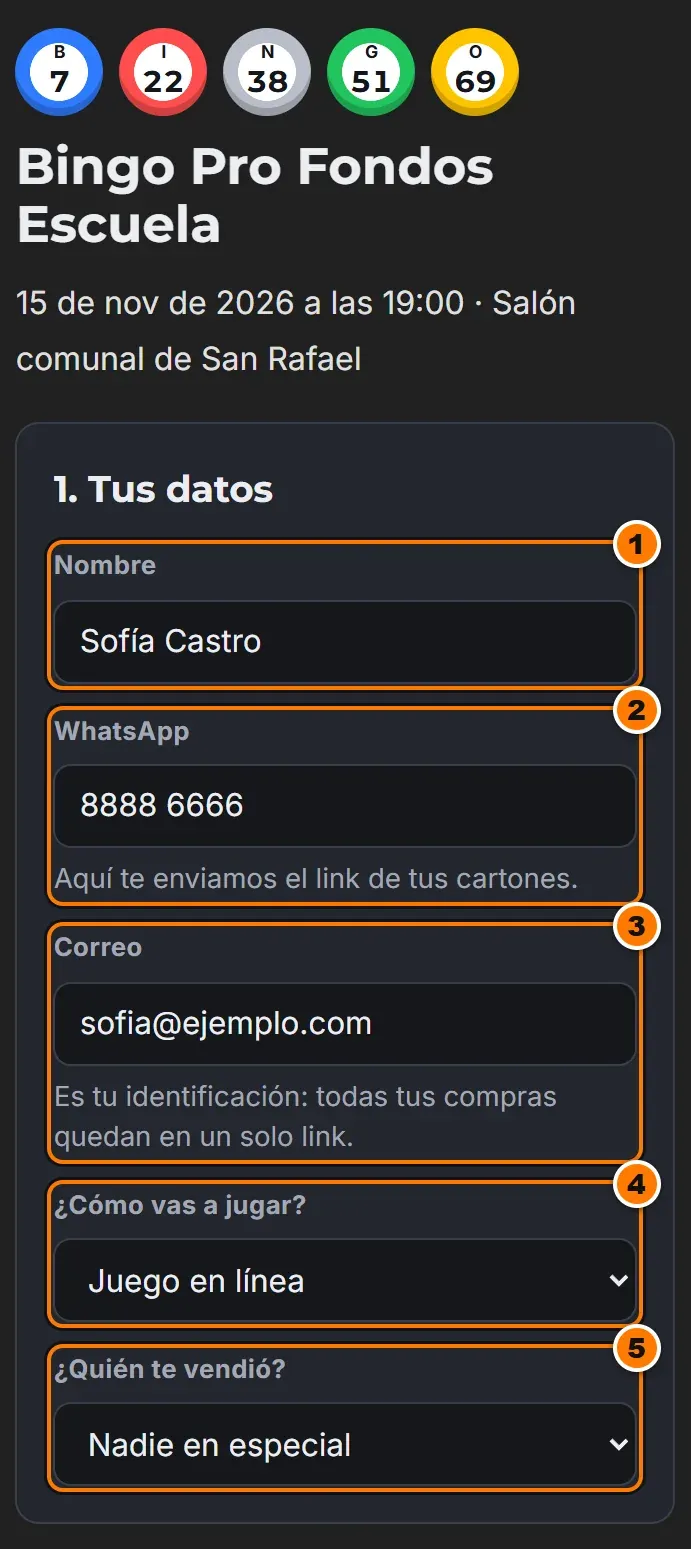
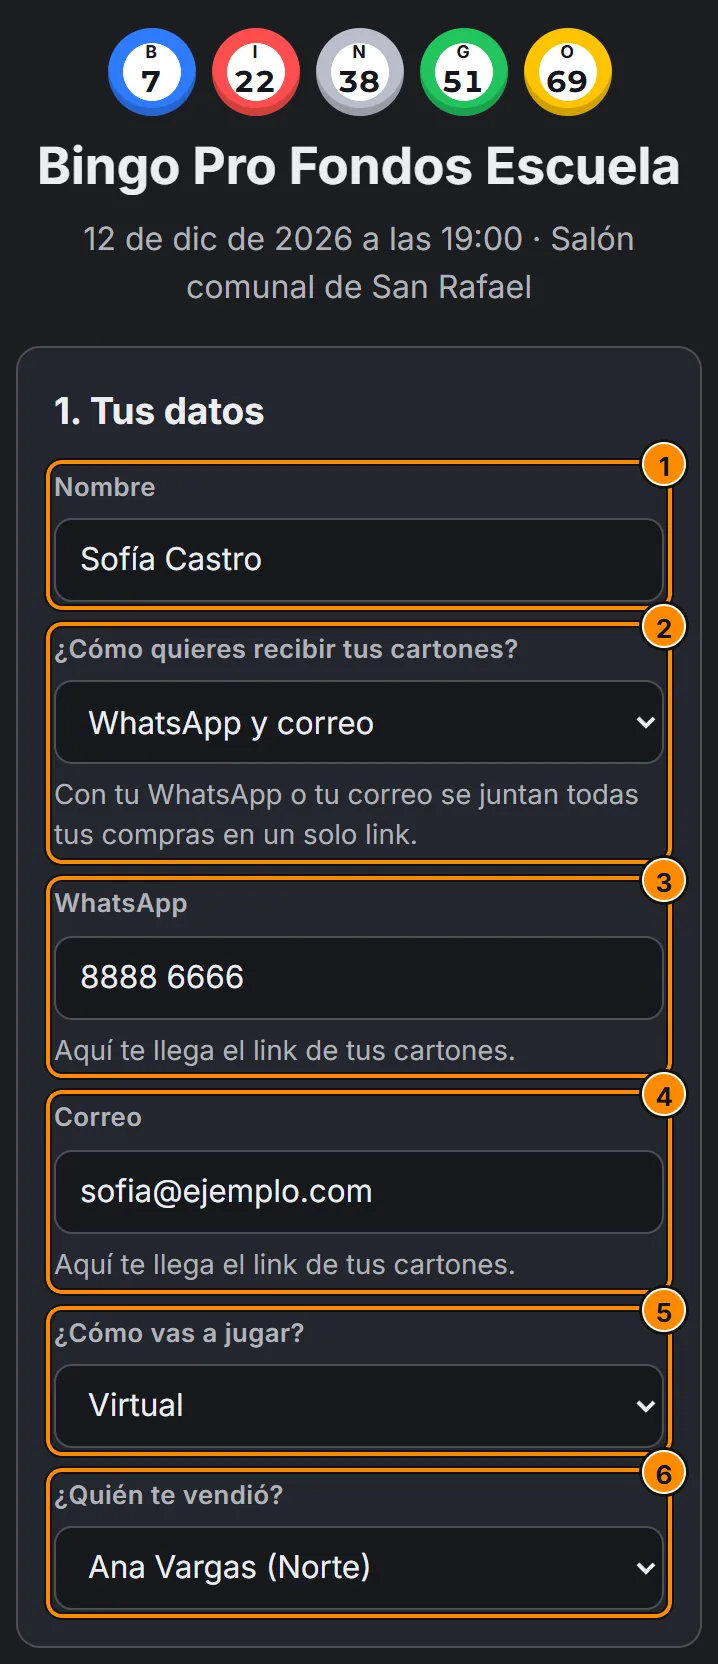
docs(bingo): guía y parches al día con el formulario y Ventas
Capturas nuevas del formulario de compra, la confirmación, la venta
presencial, Ventas y el Resumen, con sus marcas. Los avisos por WhatsApp
pasan al parche de hoy, cuando quedaron activos en el servidor.

Changed region(s): [[0.0, 0.0, 1.0, 0.9916]]

diff --git a/bingo-digital.html b/bingo-digital.html
@@ -59,9 +59,12 @@
             <li><strong>Lote de cartones presenciales:</strong> imprima los presenciales vendidos y un lote para vender en el evento; desde ahí lo presencial y lo virtual toman cartones por aparte.</li>
             <li><strong>Diseños listos para el cartón:</strong> Clásico, ChinoPCMaster, Ocean, Gold, Navidad, Halloween y Pascua, además del Sencillo y de su propio arte. Se eligen con un toque.</li>
             <li><strong>Textos, colores y tipografía:</strong> escriba el título y el subtítulo y cambie la tipografía, el color y el tamaño de cada parte del cartón, con 24 tipografías.</li>
-            <li><strong>WhatsApp, correo o ambos:</strong> en el formulario de compra, el comprador elige por dónde recibe el enlace de sus cartones. El correo ya no es obligatorio para quien prefiere WhatsApp.</li>
-            <li><strong>Un solo enlace por correo o WhatsApp:</strong> las compras de una misma persona se juntan por su correo o por su número de WhatsApp.</li>
+            <li><strong>WhatsApp, correo o ambos:</strong> en el formulario de compra, el comprador elige por dónde recibe el enlace de sus cartones y la app le pide solo ese dato. Quien prefiere WhatsApp no tiene que dar un correo.</li>
+            <li><strong>Un solo enlace por correo o WhatsApp:</strong> las compras de una misma persona se juntan por su correo o por su número de WhatsApp, aunque nunca haya dejado correo.</li>
+            <li><strong>Hacer otra compra:</strong> al terminar una compra, un botón abre el formulario en blanco para comprar más cartones o para otra persona.</li>
             <li><strong>Historial automático:</strong> cuando salen todos los mensajes que pidió el comprador, la compra pasa sola de «Por enviar» a «Historial».</li>
+            <li><strong>Reenviar desde Historial:</strong> cada compra muestra qué mensaje salió y cuál no, y el WhatsApp o el correo se pueden reenviar.</li>
+            <li><strong>Ranking de vendedores:</strong> el Resumen ordena a los encargados por cartones o por monto recaudado, con medallas para los tres primeros, y se descarga como imagen o PDF.</li>
             <li><strong>Sectores solo presenciales:</strong> un sector puede quedar fuera de «¿Quién te vendió?» del formulario y seguir vendiendo en persona con sus enlaces.</li>
             <li><strong>Correos desde bingo@chinopcmaster.com:</strong> los correos de los cartones salen desde la dirección del Bingo Digital, con el nombre de su bingo.</li>
             <li><strong>PDF de hasta 500 cartones:</strong> cada archivo lleva hasta 500 cartones (antes eran 100). Un PDF de 500 cartones pesa de 8 a 13 MB y se arma en unos 5 segundos.</li>
@@ -206,20 +209,20 @@
         <p class="doc-eyebrow tech-font">07 · Ventas</p>
         <h3 id="bd-ventas" class="doc-h2">Del comprobante al enlace de cartones</h3>
         <p class="doc-sub">Las compras en línea llegan con comprobante; las presenciales se anotan en el momento. Cada compra pasa por estas listas.</p>
-        <div class="doc-tablewrap"><table class="doc-table"><thead><tr><th>Lista</th><th>Qué significa</th><th>Qué hace usted</th></tr></thead><tbody><tr><td><strong>Pendientes</strong></td><td>Compra en línea sin revisar. Todavía no tiene cartones.</td><td>Revisar el comprobante y aprobar o rechazar.</td></tr><tr><td><strong>Por enviar</strong></td><td>Aprobada, con sus cartones asignados.</td><td>Enviar el enlace por el medio que eligió el comprador: su botón va resaltado.</td></tr><tr><td><strong>Historial</strong></td><td>Compra terminada. Pasa sola cuando salen todos los mensajes que pidió el comprador.</td><td>Nada. Queda como registro.</td></tr><tr><td><strong>Rechazadas</strong></td><td>Compra no aceptada, con su motivo.</td><td>Puede devolverla a pendientes.</td></tr><tr><td><strong>Todas</strong></td><td>Cada compra, en cualquier estado.</td><td>Buscar una compra ante cualquier reclamo y corregir su modalidad.</td></tr></tbody></table></div>
+        <div class="doc-tablewrap"><table class="doc-table"><thead><tr><th>Lista</th><th>Qué significa</th><th>Qué hace usted</th></tr></thead><tbody><tr><td><strong>Pendientes</strong></td><td>Compra en línea sin revisar. Todavía no tiene cartones.</td><td>Revisar el comprobante y aprobar o rechazar.</td></tr><tr><td><strong>Por enviar</strong></td><td>Aprobada, con sus cartones asignados.</td><td>Enviar el enlace por el medio que eligió el comprador: su botón va resaltado.</td></tr><tr><td><strong>Historial</strong></td><td>Compra terminada. Pasa sola cuando salen todos los mensajes que pidió el comprador.</td><td>Nada, o reenviar un mensaje si hace falta.</td></tr><tr><td><strong>Rechazadas</strong></td><td>Compra no aceptada, con su motivo.</td><td>Puede devolverla a pendientes.</td></tr><tr><td><strong>Todas</strong></td><td>Cada compra, en cualquier estado.</td><td>Buscar una compra ante cualquier reclamo y corregir su modalidad.</td></tr></tbody></table></div>
         <h4 class="doc-h3">Aprobar una compra</h4>
         <div class="doc-guide"><figure class="doc-figure"><a href="imagenes/bingo/guia/g-ven-pend.webp" target="_blank" rel="noopener noreferrer" aria-label="Ampliar: Ventas — una compra pendiente."><img src="imagenes/bingo/guia/g-ven-pend.webp" alt="Pestaña Ventas con una compra pendiente" loading="lazy" decoding="async" width="691" height="981"></a><figcaption class="tech-font">Ventas — una compra pendiente.</figcaption></figure><ol class="doc-marks"><li><strong>Buscar</strong> por nombre, teléfono, correo o serie.</li><li><strong>Recargar:</strong> trae las compras nuevas.</li><li><strong>+ Venta presencial:</strong> anota una venta en el momento.</li><li><strong>Las cuatro listas</strong>, con cuántas compras tiene cada una.</li><li><strong>La compra:</strong> nombre, número, fecha, modalidad, monto y cantidad.</li><li><strong>Ver comprobante:</strong> la foto o el PDF del pago.</li><li><strong>Aprobar:</strong> la app asigna cartones libres.</li><li><strong>Aprobar con series:</strong> usted elige los cartones, por ejemplo si ya le entregó unos impresos.</li><li><strong>Rechazar:</strong> pide un motivo.</li></ol></div>
         <div class="doc-guide"><figure class="doc-figure"><a href="imagenes/bingo/guia/g-ven-comprobante.webp" target="_blank" rel="noopener noreferrer" aria-label="Ampliar: Ver comprobante."><img src="imagenes/bingo/guia/g-ven-comprobante.webp" alt="Comprobante de demostración abierto en una ventana" loading="lazy" decoding="async" width="716" height="944"></a><figcaption class="tech-font">Ver comprobante.</figcaption></figure></div>
         <div class="doc-guide"><figure class="doc-figure"><a href="imagenes/bingo/guia/g-ven-series.webp" target="_blank" rel="noopener noreferrer" aria-label="Ampliar: Aprobar con series."><img src="imagenes/bingo/guia/g-ven-series.webp" alt="Ventana para elegir las series de la compra" loading="lazy" decoding="async" width="716" height="486"></a><figcaption class="tech-font">Aprobar con series.</figcaption></figure><ol class="doc-marks"><li><strong>Series:</strong> sepárelas con comas y use guion para rangos, por ejemplo 15, 16, 40-42. Deben ser exactamente las de la compra y estar libres.</li><li><strong>Aprobar</strong> asigna esos cartones.</li></ol></div>
         <div class="doc-guide"><figure class="doc-figure"><a href="imagenes/bingo/guia/g-ven-rechazar.webp" target="_blank" rel="noopener noreferrer" aria-label="Ampliar: Rechazar una compra."><img src="imagenes/bingo/guia/g-ven-rechazar.webp" alt="Ventana para rechazar una compra con su motivo" loading="lazy" decoding="async" width="716" height="434"></a><figcaption class="tech-font">Rechazar una compra.</figcaption></figure><ol class="doc-marks"><li><strong>Motivo:</strong> queda como nota en la compra.</li><li><strong>Rechazar</strong> la pasa a «Rechazadas».</li></ol></div>
         <h4 class="doc-h3">Enviar los cartones</h4>
-        <div class="doc-guide"><figure class="doc-figure"><a href="imagenes/bingo/guia/g-ven-enviar.webp" target="_blank" rel="noopener noreferrer" aria-label="Ampliar: Ventas — Por enviar."><img src="imagenes/bingo/guia/g-ven-enviar.webp" alt="Compra en Por enviar con los botones de envío" loading="lazy" decoding="async" width="691" height="1174"></a><figcaption class="tech-font">Ventas — Por enviar.</figcaption></figure><ol class="doc-marks"><li><strong>Cartones</strong> asignados a la compra.</li><li><strong>Mismo jugador:</strong> aparece si esa persona compró antes con el mismo correo o el mismo WhatsApp. Todos sus cartones están en un solo enlace.</li><li><strong>Copiar link</strong> de los cartones.</li><li><strong>Ver cartones:</strong> abre lo que verá el jugador.</li><li><strong>WhatsApp:</strong> abre el chat con su mensaje listo. Después queda como «WhatsApp ✓».</li><li><strong>Enviar correo:</strong> sale de una vez y queda como «Correo ✓».</li><li><strong>Pasar a historial:</strong> para cerrar la compra a mano, por ejemplo si entregó el enlace en persona.</li><li><strong>Devolver a pendientes:</strong> libera los cartones y el enlace deja de mostrarlos. La app pide confirmar.</li></ol></div>
+        <div class="doc-guide"><figure class="doc-figure"><a href="imagenes/bingo/guia/g-ven-enviar.webp" target="_blank" rel="noopener noreferrer" aria-label="Ampliar: Ventas — Por enviar."><img src="imagenes/bingo/guia/g-ven-enviar.webp" alt="Compra en Por enviar con los botones de envío" loading="lazy" decoding="async" width="692" height="1060"></a><figcaption class="tech-font">Ventas — Por enviar.</figcaption></figure><ol class="doc-marks"><li><strong>Recibe por y Mensajes:</strong> el medio que eligió el comprador y si ese mensaje ya salió. Lo pendiente va en rojo.</li><li><strong>Cartones</strong> asignados a la compra.</li><li><strong>Mismo jugador:</strong> aparece si esa persona compró antes con el mismo correo o el mismo WhatsApp. Todos sus cartones están en un solo enlace.</li><li><strong>Copiar link</strong> de los cartones.</li><li><strong>Ver cartones:</strong> abre lo que verá el jugador.</li><li><strong>WhatsApp:</strong> va resaltado si el comprador lo eligió y abre el chat con su mensaje listo. Después queda como «WhatsApp ✓ · Reenviar». Si dejó correo, a la par está «Enviar correo», que sale de una vez.</li><li><strong>Pasar a historial:</strong> para cerrar la compra a mano, por ejemplo si entregó el enlace en persona.</li><li><strong>Devolver a pendientes:</strong> libera los cartones y el enlace deja de mostrarlos. La app pide confirmar.</li></ol></div>
         <p class="doc-tip"><strong>«Recibe por» y el paso al historial.</strong> Cada compra muestra «Recibe por: WhatsApp», «Correo» o «WhatsApp y correo», según lo que eligió el comprador, y el botón de ese medio va resaltado. Cuando ya salieron todos esos mensajes, la compra pasa sola a «Historial» y la app le avisa. Las compras de antes de esta opción esperan WhatsApp y correo si el comprador dejó correo.</p>
         <h4 class="doc-h3">Historial y rechazadas</h4>
-        <div class="doc-guide"><figure class="doc-figure"><a href="imagenes/bingo/guia/g-ven-historial.webp" target="_blank" rel="noopener noreferrer" aria-label="Ampliar: Ventas — Historial."><img src="imagenes/bingo/guia/g-ven-historial.webp" alt="Compra en el historial" loading="lazy" decoding="async" width="691" height="675"></a><figcaption class="tech-font">Ventas — Historial.</figcaption></figure><ol class="doc-marks"><li><strong>Volver a por enviar:</strong> si requiere reenviar el enlace.</li></ol></div>
+        <div class="doc-guide"><figure class="doc-figure"><a href="imagenes/bingo/guia/g-ven-historial.webp" target="_blank" rel="noopener noreferrer" aria-label="Ampliar: Ventas — Historial."><img src="imagenes/bingo/guia/g-ven-historial.webp" alt="Compra en el historial con un mensaje enviado y otro pendiente" loading="lazy" decoding="async" width="692" height="984"></a><figcaption class="tech-font">Ventas — Historial.</figcaption></figure><ol class="doc-marks"><li><strong>Mensajes:</strong> en verde lo que ya salió y en rojo lo que el comprador pidió y no se ha enviado.</li><li><strong>WhatsApp ✓ · Reenviar:</strong> el mensaje ya salió y se puede volver a enviar cuantas veces quiera.</li><li><strong>Correo sin enviar:</strong> el botón del mensaje pendiente va en rojo. Al tocarlo, sale el correo.</li><li><strong>Volver a por enviar:</strong> devuelve la compra a «Por enviar».</li></ol></div>
         <div class="doc-guide"><figure class="doc-figure"><a href="imagenes/bingo/guia/g-ven-rechazada.webp" target="_blank" rel="noopener noreferrer" aria-label="Ampliar: Ventas — Rechazadas."><img src="imagenes/bingo/guia/g-ven-rechazada.webp" alt="Compra rechazada con su nota" loading="lazy" decoding="async" width="691" height="623"></a><figcaption class="tech-font">Ventas — Rechazadas.</figcaption></figure><ol class="doc-marks"><li><strong>Nota:</strong> el motivo del rechazo.</li><li><strong>Volver a pendientes:</strong> si fue un error.</li></ol></div>
         <h4 class="doc-h3">Venta presencial</h4>
-        <div class="doc-guide"><figure class="doc-figure"><a href="imagenes/bingo/guia/g-ven-presencial.webp" target="_blank" rel="noopener noreferrer" aria-label="Ampliar: Ventas — + Venta presencial."><img src="imagenes/bingo/guia/g-ven-presencial.webp" alt="Formulario de venta presencial" loading="lazy" decoding="async" width="716" height="2239"></a><figcaption class="tech-font">Ventas — + Venta presencial.</figcaption></figure><ol class="doc-marks"><li><strong>Comprador.</strong></li><li><strong>Correo:</strong> aparece si recibe por correo o ambos. También une sus compras en un solo enlace.</li><li><strong>WhatsApp:</strong> aparece si recibe por WhatsApp o ambos. También une sus compras en un solo enlace.</li><li><strong>¿Cómo va a jugar?</strong> En el salón o en línea.</li><li><strong>Cartones:</strong> «Impresos: anoto las series» o «Asignar cartones libres».</li><li><strong>Series entregadas:</strong> con comas y guiones. Con «Asignar», aquí se escribe la cantidad.</li><li><strong>Monto cobrado:</strong> si queda vacío, usa el precio de los combos.</li><li><strong>Forma de pago:</strong> efectivo, SINPE Móvil o transferencia.</li><li><strong>Comprobante:</strong> obligatorio con SINPE y transferencia, opcional en efectivo.</li><li><strong>Sector</strong> y encargado que vendió, para que cuente en sus cifras.</li></ol></div>
+        <div class="doc-guide"><figure class="doc-figure"><a href="imagenes/bingo/guia/g-ven-presencial.webp" target="_blank" rel="noopener noreferrer" aria-label="Ampliar: Ventas — + Venta presencial."><img src="imagenes/bingo/guia/g-ven-presencial.webp" alt="Formulario de venta presencial" loading="lazy" decoding="async" width="756" height="2645"></a><figcaption class="tech-font">Ventas — + Venta presencial.</figcaption></figure><ol class="doc-marks"><li><strong>Comprador.</strong></li><li><strong>¿Cómo recibe sus cartones?</strong> WhatsApp, correo o ambos. Hay que elegir una opción.</li><li><strong>WhatsApp:</strong> aparece si recibe por WhatsApp o ambos. También une sus compras en un solo enlace.</li><li><strong>Correo:</strong> aparece si recibe por correo o ambos. También une sus compras en un solo enlace.</li><li><strong>¿Cómo va a jugar?</strong> Presencial (en el salón) o virtual (en línea).</li><li><strong>Cartones:</strong> «Impresos: anoto las series» o «Asignar cartones libres».</li><li><strong>Series entregadas:</strong> con comas y guiones. Con «Asignar», aquí se escribe la cantidad.</li><li><strong>Monto cobrado:</strong> si queda vacío, usa el precio de los combos.</li><li><strong>Forma de pago:</strong> efectivo, SINPE Móvil o transferencia.</li><li><strong>Comprobante:</strong> obligatorio con SINPE y transferencia, opcional en efectivo.</li><li><strong>Sector</strong> y encargado que vendió, para que cuente en sus cifras.</li></ol></div>
         <p class="doc-tip">La venta presencial queda aprobada de una vez y pasa directo a «Por enviar». Debajo del comprador está <strong>«¿Cómo recibe sus cartones?»</strong>: WhatsApp, correo o ambos. Hay que elegir una opción, y según ella la app muestra el WhatsApp, el correo o los dos.</p>
         <h4 class="doc-h3">Todas las compras y cambio de modalidad</h4>
         <p>Cada compra muestra su modalidad con una etiqueta: <strong>Presencial</strong> (juega en el salón) o <strong>Virtual</strong> (juega en línea). Si el cliente eligió la que no quería:</p>
@@ -236,11 +239,12 @@
         <p class="doc-eyebrow tech-font">08 · Compra en línea</p>
         <h3 id="bd-compra" class="doc-h2">Lo que ve su comprador</h3>
         <p class="doc-sub">Comparta este enlace por WhatsApp o redes sociales. El comprador no requiere cuenta.</p>
-        <div class="doc-guide"><figure class="doc-figure"><a href="imagenes/bingo/guia/g-com-datos.webp" target="_blank" rel="noopener noreferrer" aria-label="Ampliar: Compra — 1. Sus datos."><img src="imagenes/bingo/guia/g-com-datos.webp" alt="Enlace de compra con el formulario de datos" loading="lazy" decoding="async" width="691" height="1549"></a><figcaption class="tech-font">Compra — 1. Sus datos.</figcaption></figure><ol class="doc-marks"><li><strong>Nombre</strong> del comprador.</li><li><strong>WhatsApp:</strong> ahí recibe el enlace de sus cartones. Aparece si eligió WhatsApp o ambos.</li><li><strong>Correo:</strong> ahí recibe el enlace. Aparece si eligió correo o ambos.</li><li><strong>Cómo va a jugar:</strong> en línea o en el salón. Solo aparece en bingos «Presencial y virtual».</li><li><strong>Quién le vendió:</strong> la lista de encargados, para que la venta cuente para esa persona.</li></ol></div>
-        <p class="doc-tip"><strong>¿Cómo quieres recibir tus cartones?</strong> Va después del nombre y es obligatoria: WhatsApp, correo electrónico o WhatsApp y correo. Mientras no elija, la pregunta va resaltada con el color de acento y no aparecen los demás campos. Según lo que elija, el formulario muestra solo el campo de WhatsApp, solo el del correo o los dos, junto con «¿Cómo va a jugar?» y «¿Quién le vendió?». Las compras de una misma persona se juntan en un solo enlace por su correo o por su número de WhatsApp. Dos correos distintos con un mismo teléfono, por ejemplo una familia, quedan como jugadores aparte.</p>
+        <div class="doc-guide"><figure class="doc-figure"><a href="imagenes/bingo/guia/g-com-aviso.webp" target="_blank" rel="noopener noreferrer" aria-label="Ampliar: Compra — al abrir el enlace."><img src="imagenes/bingo/guia/g-com-aviso.webp" alt="Formulario de compra con la pregunta de cómo recibir los cartones resaltada" loading="lazy" decoding="async" width="686" height="550"></a><figcaption class="tech-font">Compra — al abrir el enlace.</figcaption></figure><ol class="doc-marks"><li><strong>¿Cómo quieres recibir tus cartones?</strong> Empieza sin ninguna opción elegida y resaltada con el color de acento. Mientras no se elija, no aparecen los demás campos.</li></ol></div>
+        <div class="doc-guide"><figure class="doc-figure"><a href="imagenes/bingo/guia/g-com-datos.webp" target="_blank" rel="noopener noreferrer" aria-label="Ampliar: Compra — 1. Sus datos."><img src="imagenes/bingo/guia/g-com-datos.webp" alt="Enlace de compra con el formulario de datos" loading="lazy" decoding="async" width="718" height="1664"></a><figcaption class="tech-font">Compra — 1. Sus datos.</figcaption></figure><ol class="doc-marks"><li><strong>Nombre</strong> del comprador.</li><li><strong>¿Cómo quieres recibir tus cartones?</strong> WhatsApp, correo electrónico o WhatsApp y correo. Es obligatoria.</li><li><strong>WhatsApp:</strong> ahí recibe el enlace de sus cartones. Aparece si eligió WhatsApp o ambos.</li><li><strong>Correo:</strong> ahí recibe el enlace. Aparece si eligió correo o ambos.</li><li><strong>¿Cómo vas a jugar?</strong> Presencial o virtual. Solo aparece en bingos «Presencial y virtual».</li><li><strong>¿Quién te vendió?</strong> La lista de encargados, para que la venta cuente para esa persona.</li></ol></div>
+        <p class="doc-tip"><strong>¿Cómo quieres recibir tus cartones?</strong> Va después del nombre y es obligatoria. Según lo que elija, el formulario muestra solo el campo de WhatsApp, solo el del correo o los dos, junto con «¿Cómo vas a jugar?» y «¿Quién te vendió?». Quien elige WhatsApp no tiene que dar un correo. Las compras de una misma persona se juntan en un solo enlace por su correo o por su número de WhatsApp. Dos correos distintos con un mismo teléfono, por ejemplo una familia, quedan como jugadores aparte.</p>
         <div class="doc-guide"><figure class="doc-figure"><a href="imagenes/bingo/guia/g-com-cartones.webp" target="_blank" rel="noopener noreferrer" aria-label="Ampliar: Compra — 2. Cartones."><img src="imagenes/bingo/guia/g-com-cartones.webp" alt="Paso de cartones con el total y el desglose" loading="lazy" decoding="async" width="691" height="681"></a><figcaption class="tech-font">Compra — 2. Cartones.</figcaption></figure><ol class="doc-marks"><li><strong>Combos disponibles.</strong></li><li><strong>Cantidad</strong> de cartones.</li><li><strong>Total a pagar</strong> y cómo se arma.</li></ol></div>
         <div class="doc-guide"><figure class="doc-figure"><a href="imagenes/bingo/guia/g-com-pago.webp" target="_blank" rel="noopener noreferrer" aria-label="Ampliar: Compra — 3. Pago."><img src="imagenes/bingo/guia/g-com-pago.webp" alt="Paso de pago con los datos de SINPE y el comprobante" loading="lazy" decoding="async" width="691" height="1125"></a><figcaption class="tech-font">Compra — 3. Pago.</figcaption></figure><ol class="doc-marks"><li><strong>Datos de pago,</strong> con botón para copiarlos. Si configuró IBAN, aparece debajo.</li><li><strong>Forma de pago.</strong></li><li><strong>Comprobante:</strong> foto o PDF de hasta 12 MB. Es obligatorio.</li><li><strong>Enviar compra.</strong></li></ol></div>
-        <div class="doc-guide"><figure class="doc-figure"><a href="imagenes/bingo/guia/g-com-listo.webp" target="_blank" rel="noopener noreferrer" aria-label="Ampliar: Compra — confirmación."><img src="imagenes/bingo/guia/g-com-listo.webp" alt="Confirmación de compra recibida" loading="lazy" decoding="async" width="707" height="723"></a><figcaption class="tech-font">Compra — confirmación.</figcaption></figure><ol class="doc-marks"><li><strong>Escribir al organizador:</strong> abre su WhatsApp con el número de compra. La compra llega a sus <strong>Pendientes</strong>.</li></ol></div>
+        <div class="doc-guide"><figure class="doc-figure"><a href="imagenes/bingo/guia/g-com-listo.webp" target="_blank" rel="noopener noreferrer" aria-label="Ampliar: Compra — confirmación."><img src="imagenes/bingo/guia/g-com-listo.webp" alt="Confirmación de compra recibida" loading="lazy" decoding="async" width="742" height="783"></a><figcaption class="tech-font">Compra — confirmación.</figcaption></figure><ol class="doc-marks"><li><strong>Hacer otra compra:</strong> abre el formulario en blanco, para comprar más cartones o comprar para otra persona.</li><li><strong>Escribir al organizador:</strong> abre su WhatsApp con el número de compra. La compra llega a sus <strong>Pendientes</strong>.</li></ol></div>
         <p class="doc-back"><a href="#bingo-digital" data-page="bingo-digital" data-scroll-target="bd-indice">↑ Volver al contenido</a></p>
     </section>
 
@@ -258,7 +262,7 @@
         <p class="doc-eyebrow tech-font">10 · Resumen</p>
         <h3 id="bd-resumen" class="doc-h2">Cómo va su bingo, de un vistazo</h3>
         <div class="doc-guide"><figure class="doc-figure"><a href="imagenes/bingo/guia/g-resumen.webp" target="_blank" rel="noopener noreferrer" aria-label="Ampliar: Resumen — cifras y enlaces."><img src="imagenes/bingo/guia/g-resumen.webp" alt="Resumen con las cifras del bingo y los enlaces para compartir" loading="lazy" decoding="async" width="691" height="2325"></a><figcaption class="tech-font">Resumen — cifras y enlaces.</figcaption></figure><ol class="doc-marks"><li><strong>↻ Actualizar:</strong> trae las ventas nuevas sin salir de la página. A la izquierda ve la hora de los datos.</li><li><strong>Cifras:</strong> cartones vendidos, recaudado, compradores (cada jugador cuenta una vez, por su correo o su WhatsApp), compras por aprobar y por enviar.</li><li><strong>Compra de cartones:</strong> «Copiar», «WhatsApp» con un texto listo y «Abrir».</li><li><strong>Cantador:</strong> copie su enlace y envíeselo.</li><li><strong>Vendedores por sector:</strong> le lleva a la pestaña Sectores.</li></ol></div>
-        <div class="doc-guide"><figure class="doc-figure"><a href="imagenes/bingo/guia/g-resumen-sectores.webp" target="_blank" rel="noopener noreferrer" aria-label="Ampliar: Resumen — ventas por sector y encargado."><img src="imagenes/bingo/guia/g-resumen-sectores.webp" alt="Ventas por sector y encargado" loading="lazy" decoding="async" width="691" height="1176"></a><figcaption class="tech-font">Resumen — ventas por sector y encargado.</figcaption></figure><ol class="doc-marks"><li><strong>General:</strong> compras en línea y ventas del panel.</li><li><strong>Barra de avance:</strong> cuánto del bloque del sector ya se vendió.</li><li><strong>Cada encargado:</strong> cartones, monto y ventas.</li></ol></div>
+        <div class="doc-guide"><figure class="doc-figure"><a href="imagenes/bingo/guia/g-resumen-sectores.webp" target="_blank" rel="noopener noreferrer" aria-label="Ampliar: Resumen — ventas por sector y encargado."><img src="imagenes/bingo/guia/g-resumen-sectores.webp" alt="Ventas por encargado con medallas y ventas por sector" loading="lazy" decoding="async" width="692" height="2543"></a><figcaption class="tech-font">Resumen — ventas por sector y encargado.</figcaption></figure><ol class="doc-marks"><li><strong>Descargar imagen</strong> o <strong>Descargar PDF:</strong> todo el resumen, primero por monto recaudado, luego por cartones y al final por sector. El PDF es tamaño carta.</li><li><strong>Por cartones</strong> o <strong>Por monto recaudado:</strong> el orden del ranking.</li><li><strong>Ventas por encargado:</strong> del primer lugar al último, con medalla de oro, plata y bronce para los tres primeros. Si alguien vende en dos sectores, se suman sus ventas.</li><li><strong>Ventas por sector:</strong> las compras generales (en línea y del panel) y, por cada sector, cuánto de su bloque ya se vendió.</li></ol></div>
         <p class="doc-tip">Si el bingo tiene carpeta compartida con su correo de Google, aquí también aparece el botón para abrirla en Drive.</p>
         <p class="doc-back"><a href="#bingo-digital" data-page="bingo-digital" data-scroll-target="bd-indice">↑ Volver al contenido</a></p>
     </section>

diff --git a/index.html b/index.html
@@ -310,7 +310,7 @@
     <!-- Web App Maestro Ángeles / Rifa multi: URL .../macros/s/.../exec -->
     <script>
         /** Subir este número al cambiar HTML parcial (rifa.html, etc.) o JS dinámico — evita caché en GitHub Pages */
-        window.CPM_ASSET_V = "79";
+        window.CPM_ASSET_V = "80";
         window.CPM_ANGELS_MASTER_GAS_URL = "https://script.google.com/macros/s/AKfycbxLoQNdHqetK7cBzYCp3XEILGjH7KPWAbdadaEioOqSctUJ_gJOJJVQ0TKMP3itmT7FuQ/exec";
         /** Rifa multi-proyecto: Web App /exec */
         window.CPM_RIFA_GAS_URL = "https://script.google.com/macros/s/AKfycbyWYEfJevJ_vi9JffQeXgFB8Ru2VDOzXOQvlo29wp2qUTDi5vxzOlrybkQ1WsKXYiA/exec";
